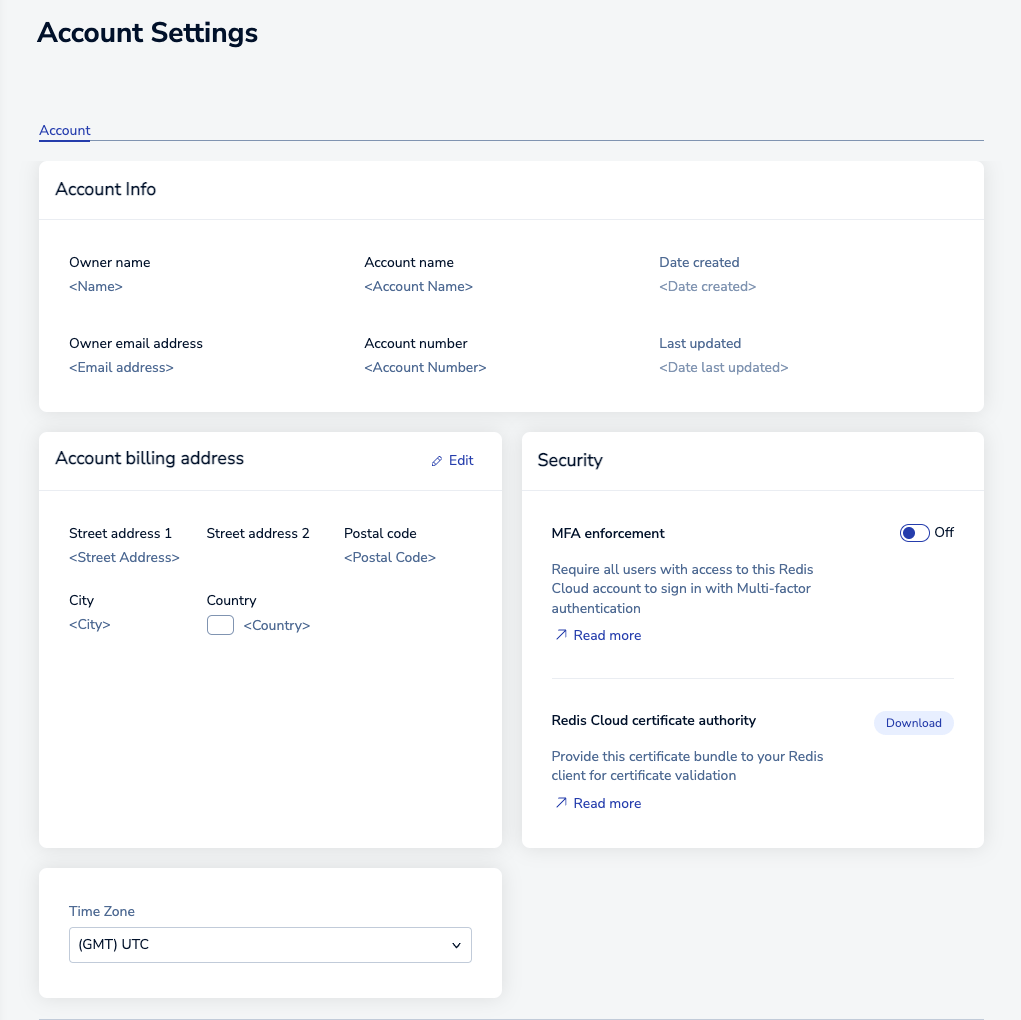
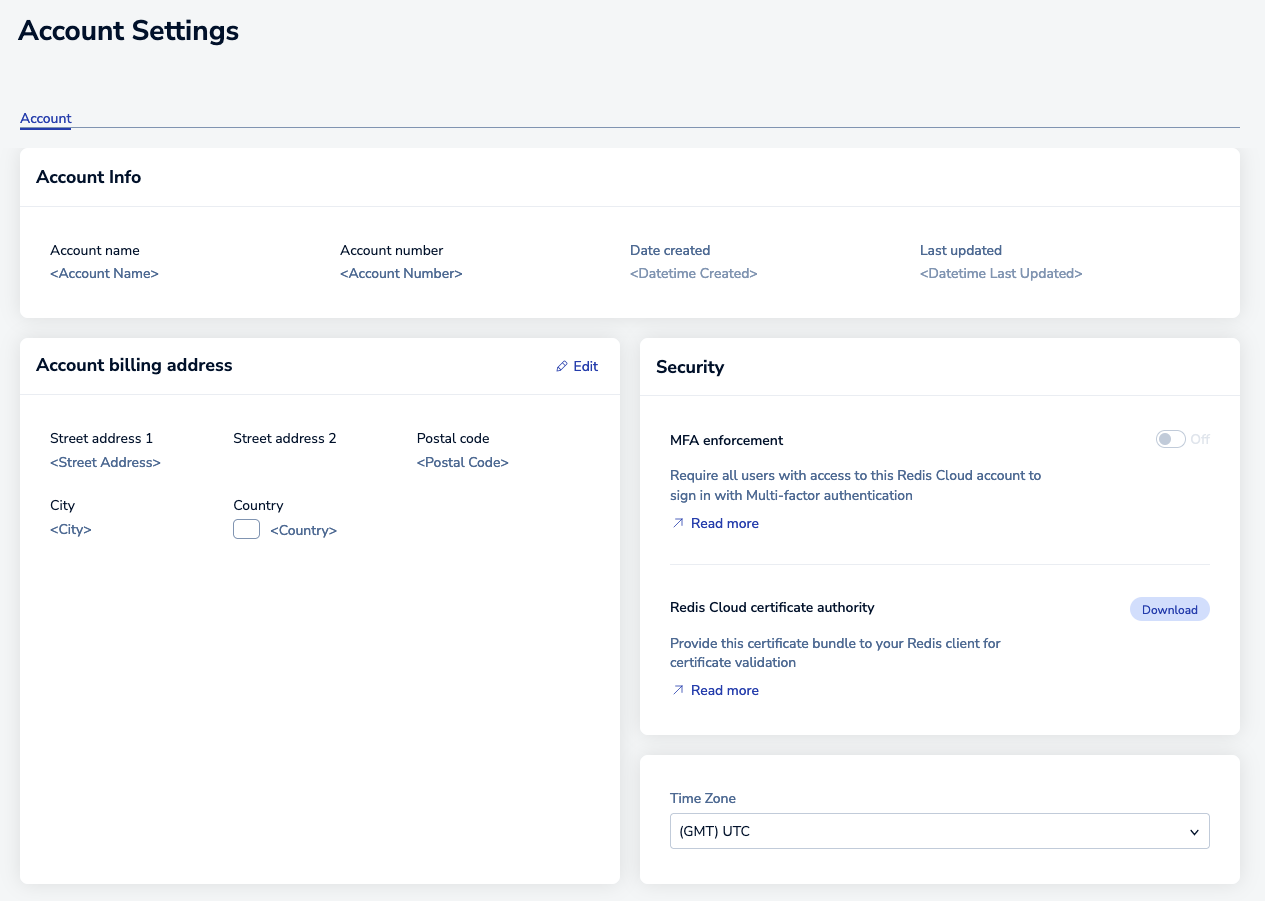
DOC-2923 Feedback from Docs Bash.

diff --git a/content/rc/accounts/account-settings.md b/content/rc/accounts/account-settings.md
@@ -14,7 +14,7 @@ aliases: [
 ]
 ---
 
-To review or manage the settings associated with your Redis Cloud account, sign in to the [admin console](https://app.redislabs.com/) and then select **Account Settings** from the menu.
+To review or manage the settings associated with your Redis Cloud account, sign in to the [Redis Cloud console](https://app.redislabs.com/) and then select **Account Settings** from the menu.
 
 This displays the **Account Settings** screen:
 
@@ -30,22 +30,18 @@ The available tabs depend on your subscription type and may include:
 
 The **Account Info** section provides basic details about your account, including:
 
-| Setting | Description |
-|---------|-------------|
-| _Owner name_ | Person associated with the Redis Cloud account |
-| _Account name_ | Organization associated with the Redis Cloud account | 
-| _Date created_ | Date the user's Redis Cloud account was created, which may differ from the organization account creation date |
-| <nobr>_Owner email address_</nobr> | Email address used to create the owner's account |
+| Setting          | Description |
+|------------------|-------------|
+| _Account name_   | Organization associated with the Redis Cloud account | 
 | _Account number_ | Internal ID of the owner's account |
-| _Last updated_ | Date of the last administrative change to the owner's account, typically reflects access changes or other administrative updates | 
+| _Date created_   | Date the user's Redis Cloud account was created, which may differ from the organization account creation date |
+| _Last updated_   | Date of the last administrative change to the owner's account, typically reflects access changes or other administrative updates | 
 
 You cannot change the email address associated with a Redis Cloud account.  Instead, create a new account with the updated email address, assign it as an administrator to the organization account, and then use the new account to delete the account with the invalid email address.
 
 ## Account address settings
 
 The **Account address** section shows the billing address associated with the current Redis Cloud account and the current time zone. 
-
-To update the time zone, select the desired time zone from the **Time zone** drop-down.
 
 In addition, this section may include fields unique to your location.  For example, certain regions require tax IDs or other regulatory details.
 
@@ -58,6 +54,10 @@ Select **Edit** to change the account's billing address. You must re-enter your 
 {{< note >}}
 Changing the billing address for your account will remove any payment methods associated with the old billing address. See [Add payment method]({{<relref "/rc/billing-and-payments#add-payment-method">}}) to learn how to add a payment method back to your account.
 {{< /note >}}
+
+## Time zone settings
+
+To update the time zone, select the desired time zone from the **Time zone** drop-down.
 
 ## Security settings
 
